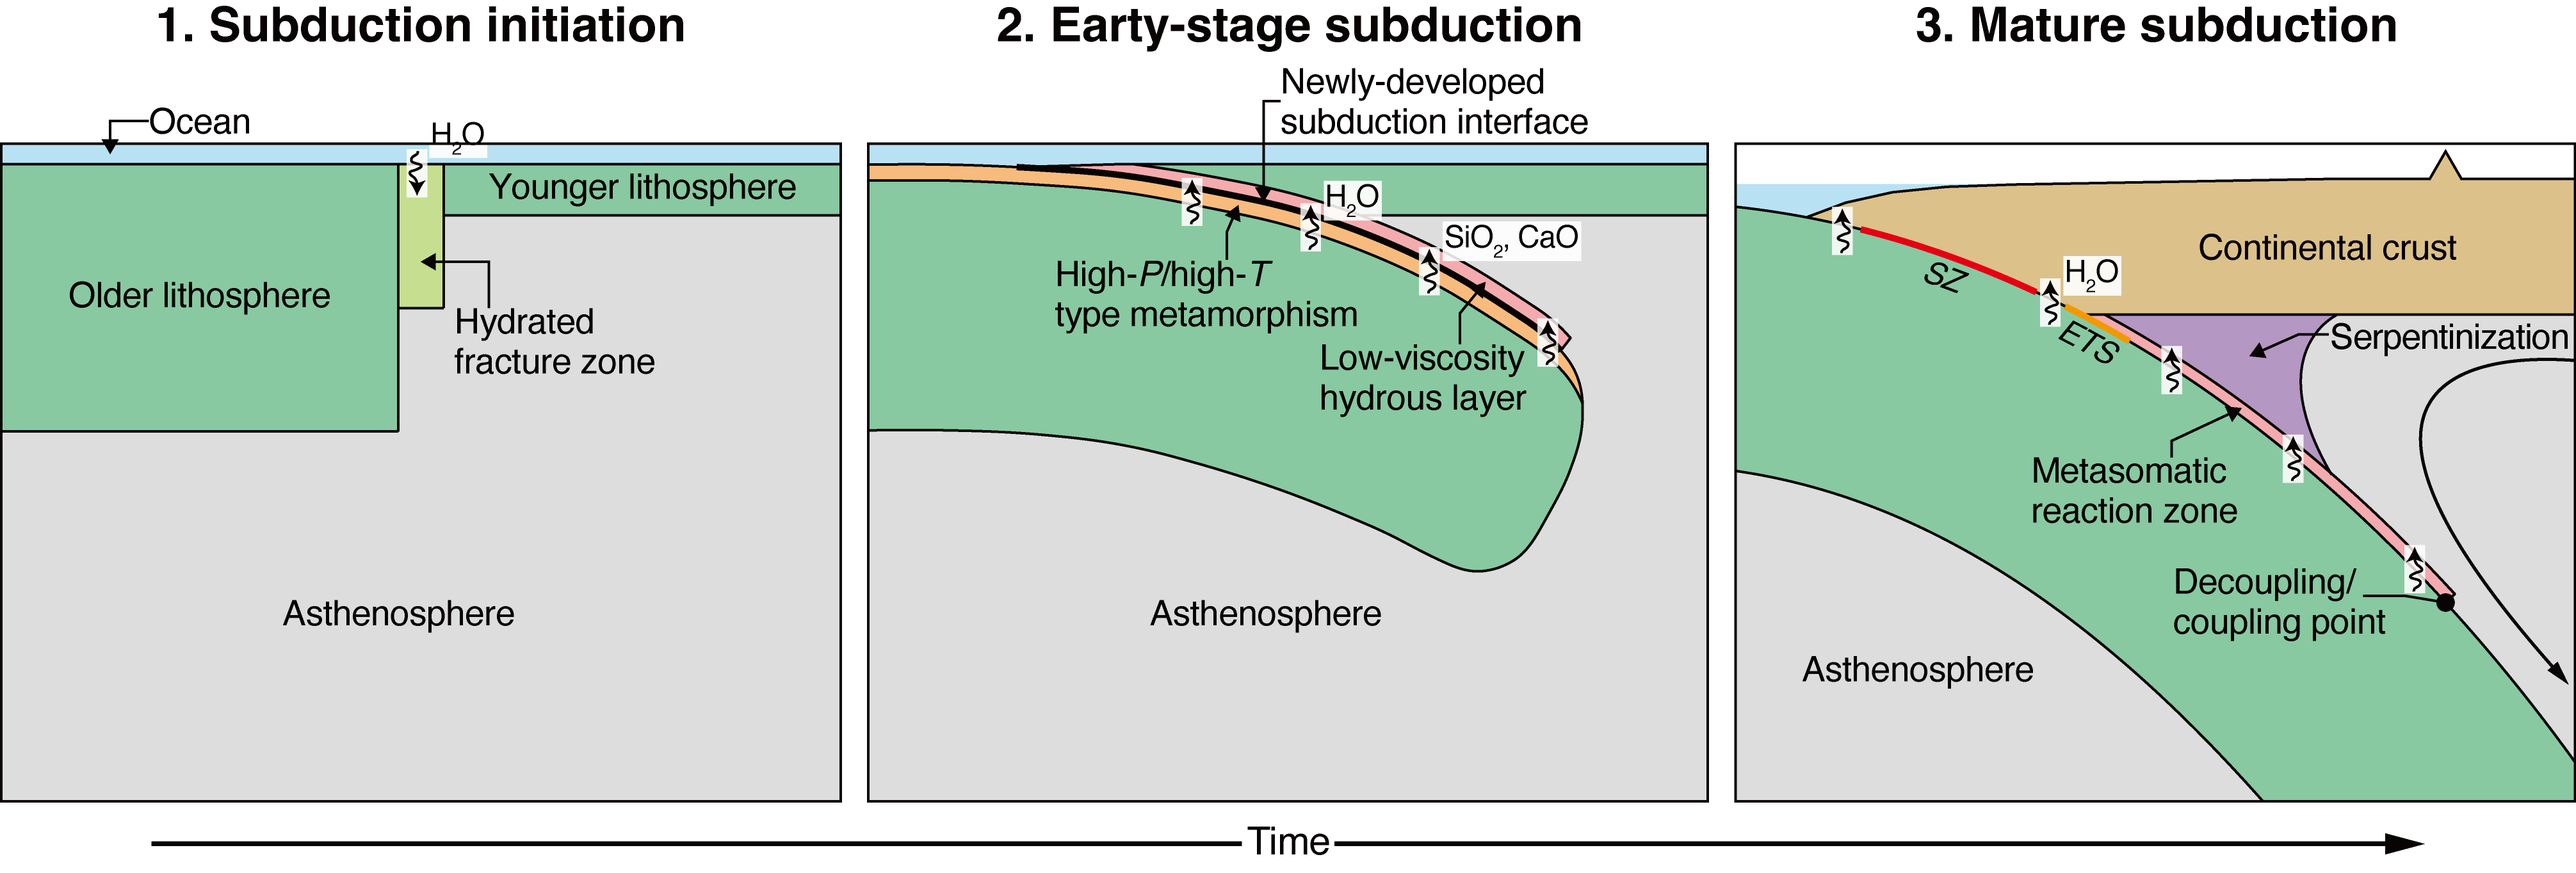
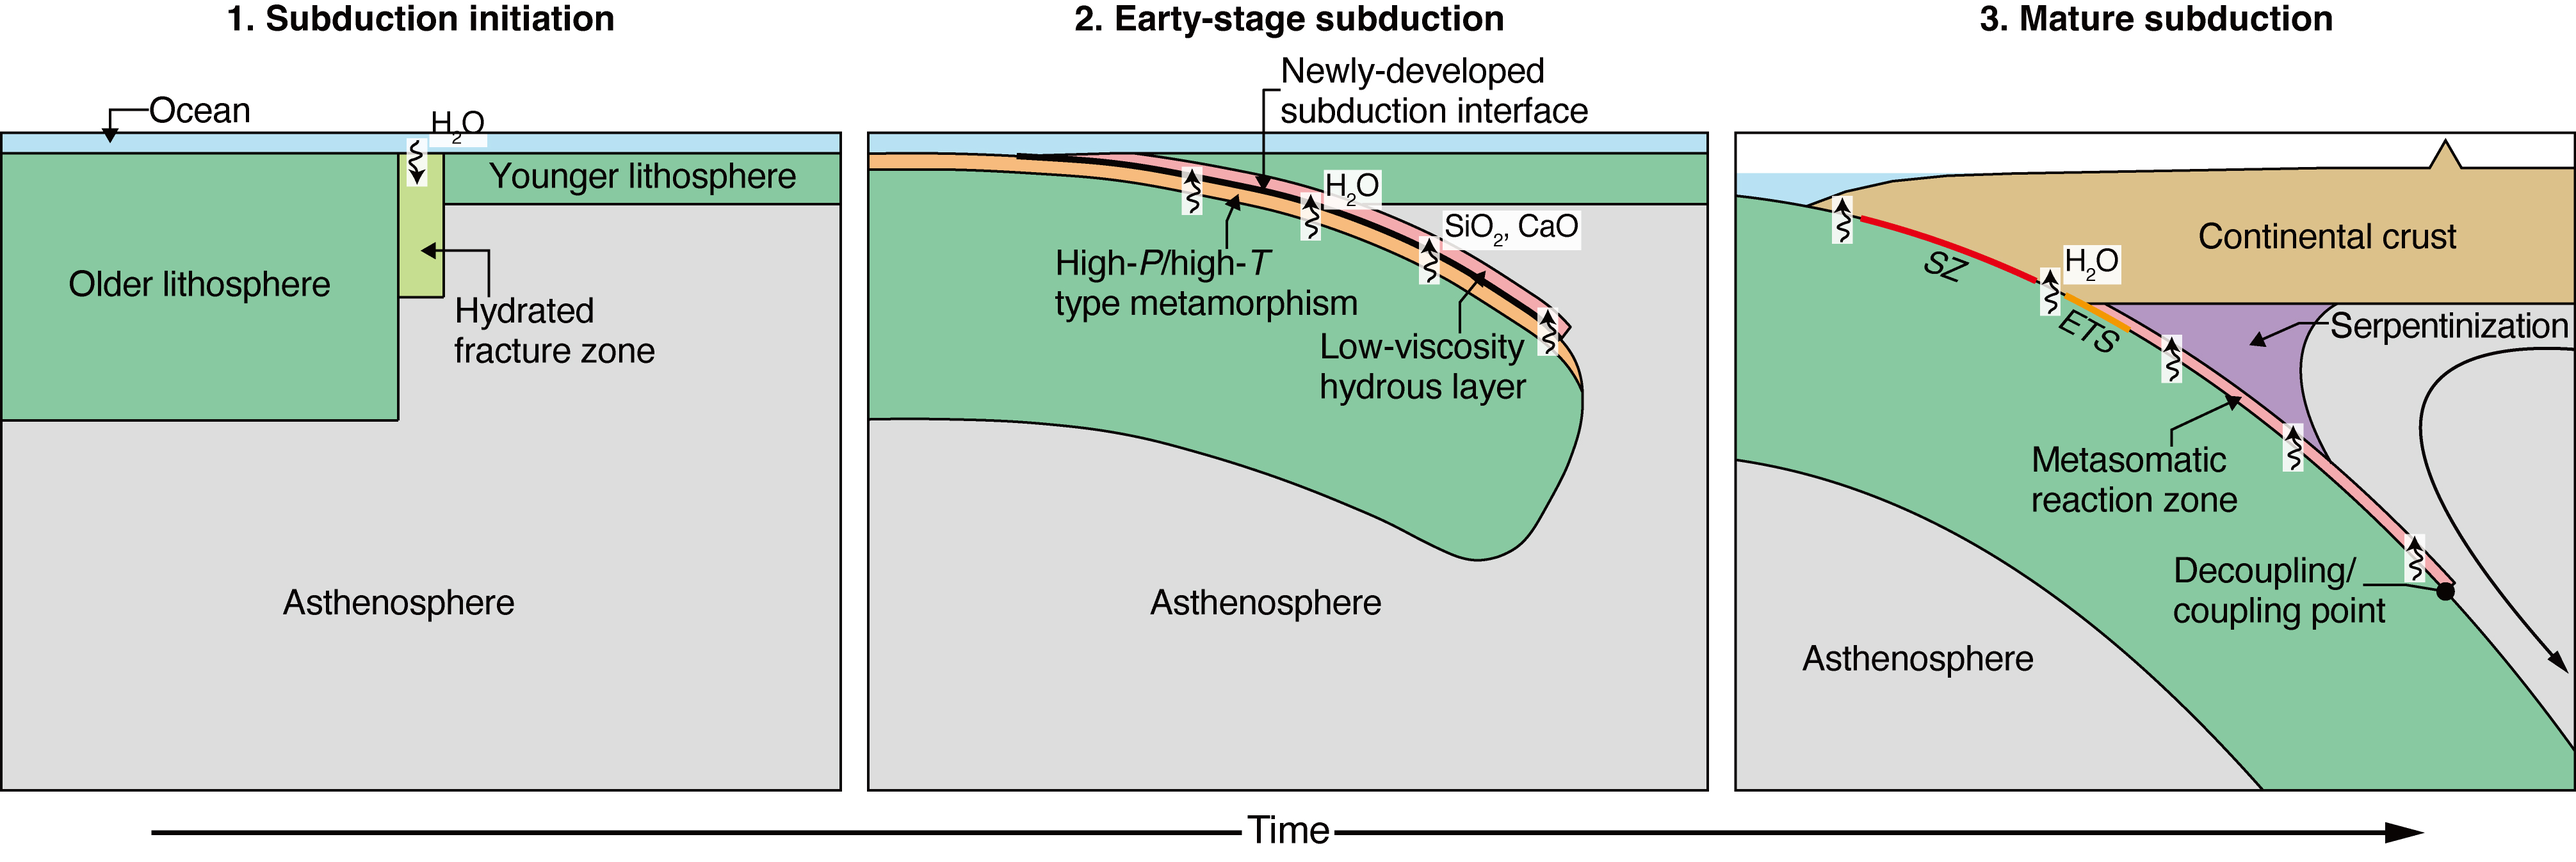
Update Research overview text and revision 6 concept diagrams

diff --git a/docs/data.js b/docs/data.js
@@ -115,9 +115,9 @@ const researchOverview={
   "ja": {
     "title": "沈み込みプレート境界層の物質科学的進化",
     "paragraphs": [
-      "沈み込み帯は、地球表層を覆うプレートが別のプレートの下へと沈み込む場所であり、巨大地震やスロー地震が発生する場でもあります。沈み込み運動が始まり、長期間にわたって継続するためには、強固な海洋リソスフェアの一部に変形が集中し、周囲よりも力学的に弱いプレート境界が形成・維持される必要があります。このようなプレート境界の形成と進化には、流体の浸透や鉱物反応、それらに伴う岩石の変形が深く関わっていると考えられています。",
-      "私たちは、沈み込みはどのように始まり、プレート境界はどのように弱化し、成熟した沈み込み帯では地震性すべり・スロースリップ・粘性流動がどのような仕組みで生じるのかという問題に取り組んでいます。特に、流体と岩石の相互作用に注目し、鉱物の生成・成長、変形の局所化、間隙流体圧の変動が、プレート境界の力学的性質をどのように変えるのかを明らかにすることを目指しています。",
-      "研究の中心となるのは、天然の剪断帯を対象とする野外調査・微細構造解析と、地下深部の条件を再現する高圧変形・摩擦実験です。天然岩石に残された変形と反応の記録を読み解くとともに、実験によって岩石や鉱物の力学特性を定量的に調べます。さらに、これらの結果を物理モデルや数値計算と結びつけることで、沈み込みプレート境界層の形成から成熟に至る進化過程を統一的に理解することを目指しています。"
+      "沈み込み帯は、海洋プレートが別のプレートの下へと沈み込む場所であり、巨大地震やスロー地震をはじめとする多様なテクトニック活動が生じる場です。プレートの沈み込みが長期的に継続するためには、強固な海洋リソスフェアの一部に変形が集中し、周囲よりも力学的に弱いプレート境界が形成・維持される必要があります。こうしたプレート境界の形成と進化には、流体の浸透やそれに伴う鉱物反応、そして岩石の変形が深く関わっていると考えられています。",
+      "私たちは、「沈み込みはどのように始まり、プレート境界はどのように弱化するのか」「成熟した沈み込み帯において、地震性すべり・スロースリップ・粘性流動はどのような仕組みで生じるのか」という課題に取り組んでいます。特に、流体と岩石の相互作用に着目し、鉱物反応に伴う変形の局所化や間隙流体圧の変動が、プレート境界の力学的性質をどのように変えるのかを明らかにすることを目指しています。",
+      "本研究室では、天然の剪断帯を対象とした野外調査・微細構造解析と、地下深部の条件を再現する高圧変形・摩擦実験を組み合わせて研究を進めています。天然岩石に残された変形と反応の記録を読み解くとともに、実験によって岩石の力学特性を定量的に評価します。さらに、これらの知見を物理モデルと結びつけることで、沈み込みプレート境界の誕生から成熟に至る進化過程を統一的に理解することを目指しています。"
     ],
     "caption": "沈み込みプレート境界層の形成と進化を示す概念図。",
     "abbreviations": "略号：SZ＝地震発生帯、ETS＝深部低周波微動とスロースリップの周期的発生。",
@@ -126,19 +126,20 @@ const researchOverview={
       "id": "overview-ja",
       "file": "subduction-boundary-evolution-ja.jpg",
       "width": 4023,
-      "height": 1357,
+      "height": 1339,
       "title": "沈み込みプレート境界層の形成と進化",
       "alt": "沈み込み開始から初期・成熟段階までのプレート境界の進化を示す3段階の概念図",
       "noImageProcessing": true,
-      "number": 1
+      "number": 1,
+      "version": "bb993c6788a0"
     }
   },
   "en": {
     "title": "Material Evolution of Subduction Plate Boundaries",
     "paragraphs": [
-      "Subduction zones are regions where one tectonic plate descends beneath another, and they are also sites of great earthquakes and slow earthquakes. For subduction to initiate and continue over geological timescales, deformation must become localized within the strong oceanic lithosphere, forming and maintaining a plate boundary that is mechanically weaker than the surrounding rocks. Fluid infiltration, mineral reactions, and associated rock deformation are thought to play important roles in the formation and evolution of such plate boundaries.",
-      "Our research addresses three fundamental questions: How does subduction initiate? How do newly formed plate boundaries weaken and remain mechanically weak? What controls seismic slip, slow slip, and viscous flow along mature subduction interfaces? We focus particularly on fluid–rock interactions, investigating how mineral reactions, strain localization, and variations in pore-fluid pressure govern the mechanical behavior of subduction plate boundaries.",
-      "Our approach combines field investigations and microstructural analyses of natural shear zones with high-pressure deformation and friction experiments that reproduce conditions relevant to the deep lithosphere. Natural rocks preserve records of deformation and fluid–rock reactions, while experiments allow us to quantify the mechanical properties and deformation mechanisms of minerals and rocks. By integrating these observations with physical models and numerical calculations, we aim to develop a comprehensive understanding of how subduction plate boundaries form and evolve."
+      "Subduction zones are regions where an oceanic plate descends beneath another tectonic plate and are sites of diverse tectonic activity, including great earthquakes and slow earthquakes. For subduction to continue over geological timescales, deformation must become localized within the strong oceanic lithosphere, forming and maintaining a plate boundary that is mechanically weaker than the surrounding rocks. Fluid infiltration, associated mineral reactions, and rock deformation are thought to play important roles in the formation and evolution of such plate boundaries.",
+      "Our research addresses two fundamental questions: \"How does subduction initiate, and how do plate boundaries weaken?\" and \"What mechanisms govern seismic slip, slow slip, and viscous flow in mature subduction zones?\" We focus particularly on fluid–rock interactions, investigating how strain localization associated with mineral reactions and variations in pore-fluid pressure influence the mechanical properties of subduction plate boundaries.",
+      "Our laboratory combines field investigations and microstructural analyses of natural shear zones with high-pressure deformation and friction experiments that reproduce conditions at depth. We examine records of deformation and fluid–rock reactions preserved in natural rocks while quantitatively evaluating the mechanical properties of rocks through laboratory experiments. By integrating these findings with physical models, we aim to develop a unified understanding of the evolution of subduction plate boundaries from their initiation to maturity."
     ],
     "caption": "Schematic model illustrating the formation and evolution of subduction plate boundaries.",
     "abbreviations": "Abbreviations: SZ, seismogenic zone; ETS, episodic tremor and slip.",
@@ -147,11 +148,12 @@ const researchOverview={
       "id": "overview-en",
       "file": "subduction-boundary-evolution-en.jpg",
       "width": 4023,
-      "height": 1364,
+      "height": 1347,
       "title": "Formation and evolution of subduction plate boundaries",
       "alt": "Three-stage schematic of subduction initiation, early-stage subduction and mature subduction",
       "noImageProcessing": true,
-      "number": 1
+      "number": 1,
+      "version": "30e030ee27de"
     }
   }
 };

diff --git a/docs/main.js b/docs/main.js
@@ -94,14 +94,14 @@ function researchOverview(){
   const overview=data.researchOverview?.[lang];
   if(!overview)return '';
   const figure=overview.image;
-  const imageURL='assets/research/'+encodeURIComponent(figure.file);
+  const imageURL='assets/research/'+encodeURIComponent(figure.file)+(figure.version?'?v='+encodeURIComponent(figure.version):'');
   return `<section class="site-container research-overview" aria-label="${t('研究概要','Research overview')}" lang="${lang}">
     <div class="research-paras research-overview-copy">${overview.paragraphs.map(p=>`<p>${p}</p>`).join('')}</div>
     <figure class="research-figure research-overview-figure" data-figure="${figure.id}"><a class="research-figure-link" href="${imageURL}" target="_blank" rel="noopener" data-research-zoom="${figure.id}" aria-label="${esc(t('拡大表示：','Enlarge: ')+figure.title)}" title="${t('クリックして拡大表示','Click to enlarge')}"><img src="${imageURL}" width="${figure.width}" height="${figure.height}" loading="lazy" decoding="async" alt="${esc(figure.alt)}"></a><figcaption><p class="research-figure-description"><strong class="research-figure-number">${t('図','Figure ')+figure.number}</strong>${t('　','. ')}${esc(overview.caption)}</p><p class="research-figure-abbreviations">${esc(overview.abbreviations)}</p></figcaption></figure>
     <p class="research-overview-transition">${esc(overview.transition)}</p>
   </section>`;
 }
-function research(){return `<main id="main" class="main-area">${pageHead('Research',t('フィールド調査と高圧変形実験を通して、沈み込みプレート境界の形成、弱化、地震・非地震性すべりを探ります。','Four research themes connecting natural shear zones, fluid–rock reactions, slow earthquakes, and the rheology of hydrous minerals.'))}${researchOverview()}<div class="site-container research-entries">${data.research.map((r,i)=>`<article class="research-entry"><div class="research-aside"><div class="research-num">${r.no}</div></div><div class="research-content"><h2 lang="${lang}">${esc(t(r.jaTitle,r.title))}</h2><p class="research-secondary-title" lang="${t('en','ja')}">${esc(t(r.title,r.jaTitle))}</p>${researchBody(r,i+1)}</div></article>`).join('')}</div></main>`}
+function research(){return `<main id="main" class="main-area">${pageHead('Research')}${researchOverview()}<div class="site-container research-entries">${data.research.map((r,i)=>`<article class="research-entry"><div class="research-aside"><div class="research-num">${r.no}</div></div><div class="research-content"><h2 lang="${lang}">${esc(t(r.jaTitle,r.title))}</h2><p class="research-secondary-title" lang="${t('en','ja')}">${esc(t(r.title,r.jaTitle))}</p>${researchBody(r,i+1)}</div></article>`).join('')}</div></main>`}
 function personRow(member){const[level,ja,en,jaRes,enRes]=member;return `<div class="person-item"><div class="person-name">${lang==='ja'?esc(ja):esc(en)}<span class="name-local">${lang==='ja'?esc(en):esc(ja)}</span></div><div class="person-desc">${esc(lang==='ja'?jaRes:enRes)}</div></div>`}
 function memberSection(title,members,small=false){return `<section class="member-section ${small?'members-section-small':''}"><h2>${title}</h2><div>${members.map(personRow).join('')}</div></section>`}
 function members(){return `<main id="main" class="main-area">${pageHead('Members')}<div class="site-container members-list"><section class="member-section"><h2>${t('教員','Principal Investigator')}</h2><div class="professor-card"><div><div class="person-name"><a href="${pUrl('profile')}">${t('平内 健一','Ken-ichi Hirauchi')}<span class="name-local">${t('Ken-ichi Hirauchi','平内 健一')}</span></a></div><div class="person-desc">${t('静岡大学 理学部 地球科学科 教授','Professor, Department of Geosciences, Faculty of Science, Shizuoka University')}</div></div><a class="profile-link" href="${pUrl('profile')}">${t('プロフィールを見る','View profile')} ↗</a></div></section><section class="member-section"><h2>${t('大学院生','Graduate Students')}</h2><div class="group-label">${t('修士1年（M1）',"Master's Students (M1)")}</div>${data.names.filter(n=>n[0]==='M1').map(personRow).join('')}</section><section class="member-section"><h2>${t('学部生','Undergraduate Students')}</h2><div class="group-label">${t('学部4年（B4）','Undergraduate Students (B4)')}</div>${data.names.filter(n=>n[0]==='B4').map(personRow).join('')}<div class="group-label" style="margin-top:26px">${t('学部3年（B3）','Third-Year Students (B3)')}</div>${data.names.filter(n=>n[0]==='B3').map(personRow).join('')}</section></div></main>`}

diff --git a/docs/research-gallery.js b/docs/research-gallery.js
@@ -3,7 +3,7 @@
   'use strict';
   const figures=window.LAB_RESEARCH_FIGURES;
   const esc=s=>String(s).replace(/[&<>"']/g,c=>({'&':'&amp;','<':'&lt;','>':'&gt;','"':'&quot;',"'":'&#39;'}[c]));
-  const imageURL=f=>'assets/research/'+encodeURIComponent(f.file);
+  const imageURL=f=>'assets/research/'+encodeURIComponent(f.file)+(f.version?'?v='+encodeURIComponent(f.version):'');
   const sourceText=f=>f.sourceJournal?esc(f.source).replace(esc(f.sourceJournal),'<i>'+esc(f.sourceJournal)+'</i>'):esc(f.source);
   let cleanup=()=>{};
 
